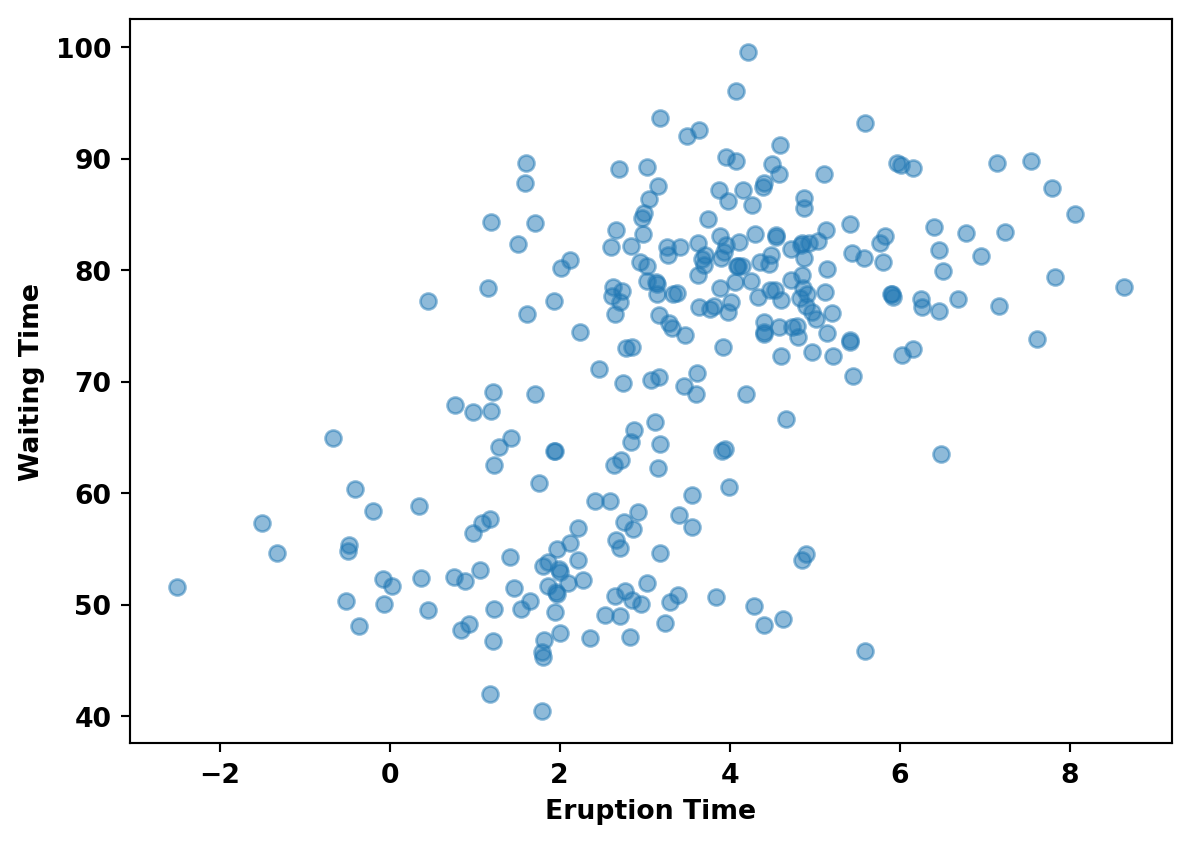
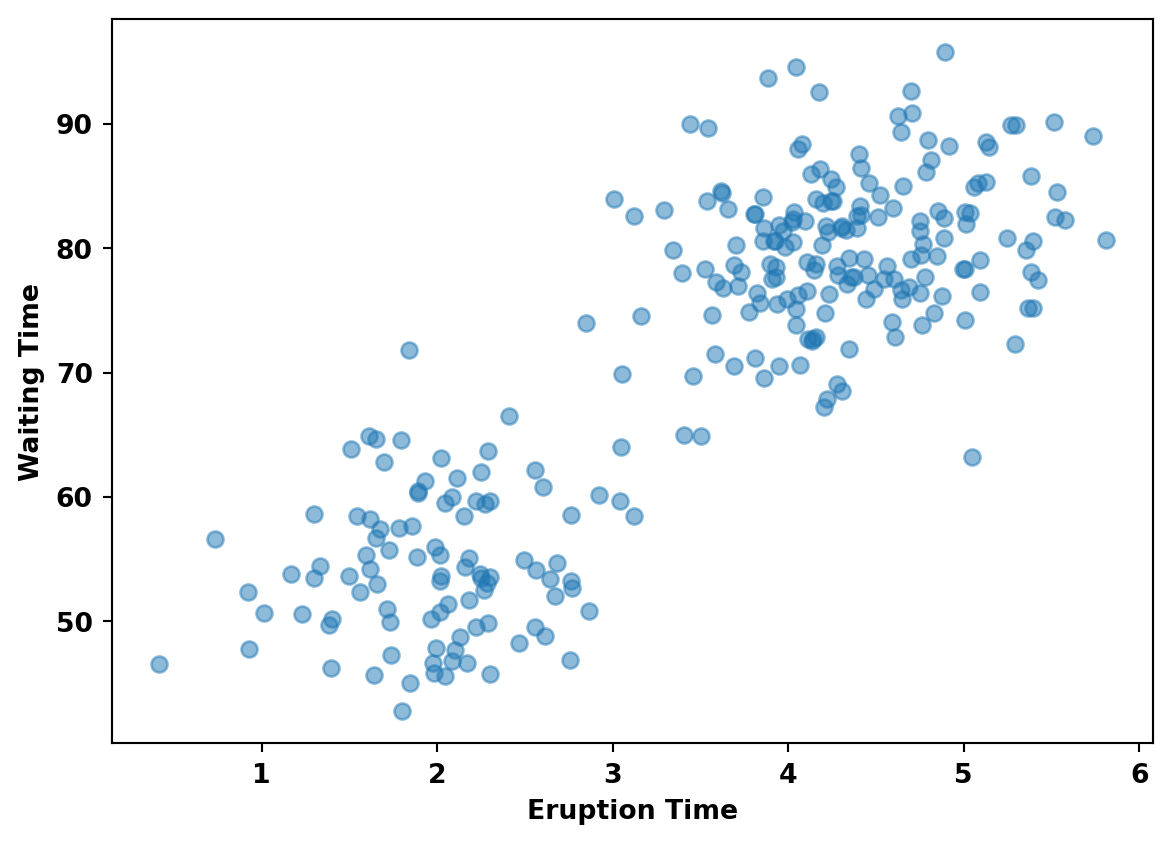
updated lab content

diff --git a/ddsbook/analytics-lab-II.html b/ddsbook/analytics-lab-II.html
@@ -127,7 +127,7 @@ code span.wa { color: #60a0b0; font-weight: bold; font-style: italic; } /* Warni
 
 <div class="quarto-figure quarto-figure-center">
 <figure class="figure">
-<p><a href="https://colab.research.google.com/github/UVADS/DS1001/blob/master/ddsbook/ex_boost_machine_example.ipynb"><img src="https://colab.research.google.com/assets/colab-badge.svg" class="img-fluid figure-img"></a></p>
+<p><a href="https://colab.research.google.com/github/UVADS/DS1001/blob/master/ddsbook/analytics-lab-II.qmd"><img src="https://colab.research.google.com/assets/colab-badge.svg" class="img-fluid figure-img"></a></p>
 <p></p><figcaption class="figure-caption">Open In Colab</figcaption><p></p>
 </figure>
 </div>
@@ -145,15 +145,19 @@ code span.wa { color: #60a0b0; font-weight: bold; font-style: italic; } /* Warni
 <li><p>Answer the questions below as they relate to model output and the articles.</p></li>
 </ol>
 <div class="cell" data-execution_count="2">
-<div class="sourceCode cell-code" id="cb2"><pre class="sourceCode python code-with-copy"><code class="sourceCode python"><span id="cb2-1"><a href="#cb2-1" aria-hidden="true" tabindex="-1"></a><span class="co"># This is the dataset we will be using: classic eruption times for old faithful. Take a look at the documentation here: https://www.rdocumentation.org/packages/datasets/versions/3.6.2/topics/faithful</span></span>
-<span id="cb2-2"><a href="#cb2-2" aria-hidden="true" tabindex="-1"></a></span>
-<span id="cb2-3"><a href="#cb2-3" aria-hidden="true" tabindex="-1"></a></span>
-<span id="cb2-4"><a href="#cb2-4" aria-hidden="true" tabindex="-1"></a><span class="co">## This is our data source</span></span>
-<span id="cb2-5"><a href="#cb2-5" aria-hidden="true" tabindex="-1"></a>url<span class="op">=</span><span class="st">"https://gist.githubusercontent.com/curran/4b59d1046d9e66f2787780ad51a1cd87/raw/9ec906b78a98cf300947a37b56cfe70d01183200/data.tsv"</span></span>
-<span id="cb2-6"><a href="#cb2-6" aria-hidden="true" tabindex="-1"></a></span>
-<span id="cb2-7"><a href="#cb2-7" aria-hidden="true" tabindex="-1"></a></span>
-<span id="cb2-8"><a href="#cb2-8" aria-hidden="true" tabindex="-1"></a><span class="co">## Reading in the data, and use the "tab" as a separator so the data will be loaded in correctly.  pd stands for pandas and "pd.read_csv" is the function we are using to read in the data from the url.</span></span>
-<span id="cb2-9"><a href="#cb2-9" aria-hidden="true" tabindex="-1"></a>old_faith <span class="op">=</span> pd.read_csv(url, sep<span class="op">=</span><span class="st">'</span><span class="ch">\t</span><span class="st">'</span>)</span></code><button title="Copy to Clipboard" class="code-copy-button"><i class="bi"></i></button></pre></div>
+<div class="sourceCode cell-code" id="cb2"><pre class="sourceCode python code-with-copy"><code class="sourceCode python"><span id="cb2-1"><a href="#cb2-1" aria-hidden="true" tabindex="-1"></a><span class="co"># This is the dataset we will be using: classic eruption times for old faithful. </span></span>
+<span id="cb2-2"><a href="#cb2-2" aria-hidden="true" tabindex="-1"></a><span class="co"># Take a look at the documentation </span></span>
+<span id="cb2-3"><a href="#cb2-3" aria-hidden="true" tabindex="-1"></a><span class="co"># here: https://www.rdocumentation.org/packages/datasets/versions/3.6.2/topics/faithful</span></span>
+<span id="cb2-4"><a href="#cb2-4" aria-hidden="true" tabindex="-1"></a></span>
+<span id="cb2-5"><a href="#cb2-5" aria-hidden="true" tabindex="-1"></a></span>
+<span id="cb2-6"><a href="#cb2-6" aria-hidden="true" tabindex="-1"></a><span class="co"># This is our data source</span></span>
+<span id="cb2-7"><a href="#cb2-7" aria-hidden="true" tabindex="-1"></a>url<span class="op">=</span><span class="st">"https://gist.githubusercontent.com/curran/4b59d1046d9e66f2787780ad51a1cd87/raw/9ec906b78a98cf300947a37b56cfe70d01183200/data.tsv"</span></span>
+<span id="cb2-8"><a href="#cb2-8" aria-hidden="true" tabindex="-1"></a></span>
+<span id="cb2-9"><a href="#cb2-9" aria-hidden="true" tabindex="-1"></a></span>
+<span id="cb2-10"><a href="#cb2-10" aria-hidden="true" tabindex="-1"></a><span class="co"># Reading in the data, and use the "tab" as a separator so the data will be loaded </span></span>
+<span id="cb2-11"><a href="#cb2-11" aria-hidden="true" tabindex="-1"></a><span class="co"># in correctly.  pd stands for pandas and "pd.read_csv" is the function we are </span></span>
+<span id="cb2-12"><a href="#cb2-12" aria-hidden="true" tabindex="-1"></a><span class="co"># using to read in the data from the url.</span></span>
+<span id="cb2-13"><a href="#cb2-13" aria-hidden="true" tabindex="-1"></a>old_faith <span class="op">=</span> pd.read_csv(url, sep<span class="op">=</span><span class="st">'</span><span class="ch">\t</span><span class="st">'</span>)</span></code><button title="Copy to Clipboard" class="code-copy-button"><i class="bi"></i></button></pre></div>
 </div>
 </section>
 <section id="lets-take-a-quick-look-at-a-plot-to-get-an-idea-of-the-distribution-of-the-data." class="level2">
@@ -165,7 +169,7 @@ code span.wa { color: #60a0b0; font-weight: bold; font-style: italic; } /* Warni
 <span id="cb3-4"><a href="#cb3-4" aria-hidden="true" tabindex="-1"></a></span>
 <span id="cb3-5"><a href="#cb3-5" aria-hidden="true" tabindex="-1"></a>plt.show()</span>
 <span id="cb3-6"><a href="#cb3-6" aria-hidden="true" tabindex="-1"></a></span>
-<span id="cb3-7"><a href="#cb3-7" aria-hidden="true" tabindex="-1"></a><span class="co"># Note the patterns that you see? </span></span></code><button title="Copy to Clipboard" class="code-copy-button"><i class="bi"></i></button></pre></div>
+<span id="cb3-7"><a href="#cb3-7" aria-hidden="true" tabindex="-1"></a><span class="co"># Note the patterns that you see, (you'll need this for your submission) </span></span></code><button title="Copy to Clipboard" class="code-copy-button"><i class="bi"></i></button></pre></div>
 <div class="cell-output cell-output-display">
 <p><img src="analytics-lab-II_files/figure-html/cell-4-output-1.png" width="586" height="422"></p>
 </div>
@@ -178,7 +182,8 @@ code span.wa { color: #60a0b0; font-weight: bold; font-style: italic; } /* Warni
 <span id="cb4-2"><a href="#cb4-2" aria-hidden="true" tabindex="-1"></a></span>
 <span id="cb4-3"><a href="#cb4-3" aria-hidden="true" tabindex="-1"></a>lm.summary()</span>
 <span id="cb4-4"><a href="#cb4-4" aria-hidden="true" tabindex="-1"></a></span>
-<span id="cb4-5"><a href="#cb4-5" aria-hidden="true" tabindex="-1"></a><span class="co">#Using the R2 measure, how well does the model predict (scale of 0 to 1, where 1 is perfect)</span></span></code><button title="Copy to Clipboard" class="code-copy-button"><i class="bi"></i></button></pre></div>
+<span id="cb4-5"><a href="#cb4-5" aria-hidden="true" tabindex="-1"></a><span class="co">#Using the R2 measure, how well does the model predict (scale of 0 to 1,</span></span>
+<span id="cb4-6"><a href="#cb4-6" aria-hidden="true" tabindex="-1"></a><span class="co">#  where 1 is perfect, again needed for your submission)</span></span></code><button title="Copy to Clipboard" class="code-copy-button"><i class="bi"></i></button></pre></div>
 <div class="cell-output cell-output-display" data-execution_count="4">
 
 <table class="simpletable">
@@ -196,7 +201,7 @@ code span.wa { color: #60a0b0; font-weight: bold; font-style: italic; } /* Warni
   <th>Date:</th>             <td>Wed, 12 Apr 2023</td> <th>  Prob (F-statistic):</th>          <td>9.97e-214</td>
 </tr>
 <tr>
-  <th>Time:</th>                 <td>22:26:08</td>     <th>  Log-Likelihood:    </th>          <td> -1060.7</td> 
+  <th>Time:</th>                 <td>22:43:58</td>     <th>  Log-Likelihood:    </th>          <td> -1060.7</td> 
 </tr>
 <tr>
   <th>No. Observations:</th>      <td>   272</td>      <th>  AIC:               </th>          <td>   2123.</td> 
@@ -240,16 +245,16 @@ code span.wa { color: #60a0b0; font-weight: bold; font-style: italic; } /* Warni
 <h2 class="anchored" data-anchor-id="now-what-we-are-going-to-do-is-add-noise-to-the-dataset-and-then-rerun-the-model-and-see-what-happens.">Now what we are going to do is add “noise” to the dataset and then rerun the model and see what happens.</h2>
 <div class="cell" data-execution_count="5">
 <div class="sourceCode cell-code" id="cb5"><pre class="sourceCode python code-with-copy"><code class="sourceCode python"><span id="cb5-1"><a href="#cb5-1" aria-hidden="true" tabindex="-1"></a><span class="co"># mu= mean and sigma =standard deviation</span></span>
-<span id="cb5-2"><a href="#cb5-2" aria-hidden="true" tabindex="-1"></a>mu, sigma <span class="op">=</span> <span class="dv">0</span>, <span class="fl">1.5</span> </span>
+<span id="cb5-2"><a href="#cb5-2" aria-hidden="true" tabindex="-1"></a>mu, sigma <span class="op">=</span> <span class="dv">0</span>, <span class="fl">.5</span> </span>
 <span id="cb5-3"><a href="#cb5-3" aria-hidden="true" tabindex="-1"></a><span class="co"># creating a noise with the same dimension as the dataset (2,2) </span></span>
 <span id="cb5-4"><a href="#cb5-4" aria-hidden="true" tabindex="-1"></a>noise <span class="op">=</span> np.random.normal(mu, sigma, [<span class="dv">272</span>,<span class="dv">2</span>]) </span>
 <span id="cb5-5"><a href="#cb5-5" aria-hidden="true" tabindex="-1"></a><span class="bu">print</span>(noise[<span class="dv">0</span>:<span class="dv">5</span>])</span></code><button title="Copy to Clipboard" class="code-copy-button"><i class="bi"></i></button></pre></div>
 <div class="cell-output cell-output-stdout">
-<pre><code>[[-1.58402905  1.23013109]
- [-0.74089826 -0.86104114]
- [ 0.6850748   3.14807344]
- [ 0.87415294  0.28048042]
- [-1.48285727  1.34634408]]</code></pre>
+<pre><code>[[ 0.50881014 -0.12189941]
+ [ 0.21564    -0.7896611 ]
+ [-0.48547227 -0.03413278]
+ [ 0.27433236  0.14118803]
+ [ 0.52767543 -0.11133328]]</code></pre>
 </div>
 </div>
 </section>
@@ -266,25 +271,25 @@ code span.wa { color: #60a0b0; font-weight: bold; font-style: italic; } /* Warni
 <table class="simpletable">
 <caption>OLS Regression Results</caption>
 <tbody><tr>
-  <th>Dep. Variable:</th>         <td>waiting</td>     <th>  R-squared (uncentered):</th>      <td>   0.834</td> 
+  <th>Dep. Variable:</th>         <td>waiting</td>     <th>  R-squared (uncentered):</th>      <td>   0.956</td> 
 </tr>
 <tr>
-  <th>Model:</th>                   <td>OLS</td>       <th>  Adj. R-squared (uncentered):</th> <td>   0.833</td> 
+  <th>Model:</th>                   <td>OLS</td>       <th>  Adj. R-squared (uncentered):</th> <td>   0.956</td> 
 </tr>
 <tr>
-  <th>Method:</th>             <td>Least Squares</td>  <th>  F-statistic:       </th>          <td>   1361.</td> 
+  <th>Method:</th>             <td>Least Squares</td>  <th>  F-statistic:       </th>          <td>   5882.</td> 
 </tr>
 <tr>
-  <th>Date:</th>             <td>Wed, 12 Apr 2023</td> <th>  Prob (F-statistic):</th>          <td>1.18e-107</td>
+  <th>Date:</th>             <td>Wed, 12 Apr 2023</td> <th>  Prob (F-statistic):</th>          <td>8.70e-186</td>
 </tr>
 <tr>
-  <th>Time:</th>                 <td>22:26:08</td>     <th>  Log-Likelihood:    </th>          <td> -1305.7</td> 
+  <th>Time:</th>                 <td>22:43:58</td>     <th>  Log-Likelihood:    </th>          <td> -1125.3</td> 
 </tr>
 <tr>
-  <th>No. Observations:</th>      <td>   272</td>      <th>  AIC:               </th>          <td>   2613.</td> 
+  <th>No. Observations:</th>      <td>   272</td>      <th>  AIC:               </th>          <td>   2253.</td> 
 </tr>
 <tr>
-  <th>Df Residuals:</th>          <td>   271</td>      <th>  BIC:               </th>          <td>   2617.</td> 
+  <th>Df Residuals:</th>          <td>   271</td>      <th>  BIC:               </th>          <td>   2256.</td> 
 </tr>
 <tr>
   <th>Df Model:</th>              <td>     1</td>      <th>                     </th>              <td> </td>    
@@ -298,21 +303,21 @@ code span.wa { color: #60a0b0; font-weight: bold; font-style: italic; } /* Warni
       <td></td>         <th>coef</th>     <th>std err</th>      <th>t</th>      <th>P&gt;|t|</th>  <th>[0.025</th>    <th>0.975]</th>  
 </tr>
 <tr>
-  <th>eruptions</th> <td>   16.8468</td> <td>    0.457</td> <td>   36.891</td> <td> 0.000</td> <td>   15.948</td> <td>   17.746</td>
+  <th>eruptions</th> <td>   18.9218</td> <td>    0.247</td> <td>   76.695</td> <td> 0.000</td> <td>   18.436</td> <td>   19.408</td>
 </tr>
 </tbody></table>
 <table class="simpletable">
 <tbody><tr>
-  <th>Omnibus:</th>       <td> 1.608</td> <th>  Durbin-Watson:     </th> <td>   1.664</td>
+  <th>Omnibus:</th>       <td> 1.505</td> <th>  Durbin-Watson:     </th> <td>   2.235</td>
 </tr>
 <tr>
-  <th>Prob(Omnibus):</th> <td> 0.448</td> <th>  Jarque-Bera (JB):  </th> <td>   1.361</td>
+  <th>Prob(Omnibus):</th> <td> 0.471</td> <th>  Jarque-Bera (JB):  </th> <td>   1.433</td>
 </tr>
 <tr>
-  <th>Skew:</th>          <td>-0.063</td> <th>  Prob(JB):          </th> <td>   0.506</td>
+  <th>Skew:</th>          <td> 0.077</td> <th>  Prob(JB):          </th> <td>   0.488</td>
 </tr>
 <tr>
-  <th>Kurtosis:</th>      <td> 3.323</td> <th>  Cond. No.          </th> <td>    1.00</td>
+  <th>Kurtosis:</th>      <td> 2.680</td> <th>  Cond. No.          </th> <td>    1.00</td>
 </tr>
 </tbody></table><br><br>Notes:<br>[1] R² is computed without centering (uncentered) since the model does not contain a constant.<br>[2] Standard Errors assume that the covariance matrix of the errors is correctly specified.
 </div>
@@ -327,19 +332,23 @@ code span.wa { color: #60a0b0; font-weight: bold; font-style: italic; } /* Warni
 <span id="cb8-4"><a href="#cb8-4" aria-hidden="true" tabindex="-1"></a></span>
 <span id="cb8-5"><a href="#cb8-5" aria-hidden="true" tabindex="-1"></a>plt.show()</span></code><button title="Copy to Clipboard" class="code-copy-button"><i class="bi"></i></button></pre></div>
 <div class="cell-output cell-output-display">
-<p><img src="analytics-lab-II_files/figure-html/cell-8-output-1.png" width="595" height="422"></p>
+<p><img src="analytics-lab-II_files/figure-html/cell-8-output-1.png" width="586" height="422"></p>
 </div>
 </div>
+<section id="task-1-slowly-change-the-standard-deviation-increases-of-.25-and-see-what-happens-with-the-r2-number-note-the-pace-of-change-of-the-model." class="level3">
+<h3 class="anchored" data-anchor-id="task-1-slowly-change-the-standard-deviation-increases-of-.25-and-see-what-happens-with-the-r2-number-note-the-pace-of-change-of-the-model.">Task 1: Slowly change the standard deviation (increases of .25) and see what happens with the R2 number, note the pace of change of the model.</h3>
 </section>
-<section id="task-1-slowly-change-the-standard-deviation-increases-of-.25-and-see-what-happens-with-the-r2-number-note-the-pace-of-change-of-the-model." class="level2">
-<h2 class="anchored" data-anchor-id="task-1-slowly-change-the-standard-deviation-increases-of-.25-and-see-what-happens-with-the-r2-number-note-the-pace-of-change-of-the-model.">Task 1: Slowly change the standard deviation (increases of .25) and see what happens with the R2 number, note the pace of change of the model.</h2>
+<section id="task-2-adjust-the-mean-but-leave-the-standard-dev-low-note-how-this-effects-the-model." class="level3">
+<h3 class="anchored" data-anchor-id="task-2-adjust-the-mean-but-leave-the-standard-dev-low-note-how-this-effects-the-model.">Task 2: Adjust the mean but leave the standard dev low, note how this effects the model.</h3>
 </section>
-<section id="task-2-adjust-the-mean-but-leave-the-standard-dev-low-note-how-this-effects-the-model." class="level2">
-<h2 class="anchored" data-anchor-id="task-2-adjust-the-mean-but-leave-the-standard-dev-low-note-how-this-effects-the-model.">Task 2: Adjust the mean but leave the standard dev low, note how this effects the model.</h2>
 </section>
-<section id="explain-the-concept-behind-noise-versus-signal-as-it-relates-to-example-today-on-the-old-faithful-dataset." class="level2">
-<h2 class="anchored" data-anchor-id="explain-the-concept-behind-noise-versus-signal-as-it-relates-to-example-today-on-the-old-faithful-dataset.">Explain the concept behind noise versus signal as it relates to example today on the old faithful dataset.</h2>
-<p>Define the term guassian noise and explain the observations you noted as it relates to</p>
+<section id="questions-for-submission" class="level2">
+<h2 class="anchored" data-anchor-id="questions-for-submission">Questions for submission:</h2>
+<ol type="1">
+<li><p>What patterns do you see in the data?</p></li>
+<li><p>Explain the concept behind noise versus signal as it relates to example today on the old faithful dataset.</p></li>
+<li><p>Define the term guassian noise and explain the observations you noted as it relates to</p></li>
+</ol>
 </section>
 
 </main>
